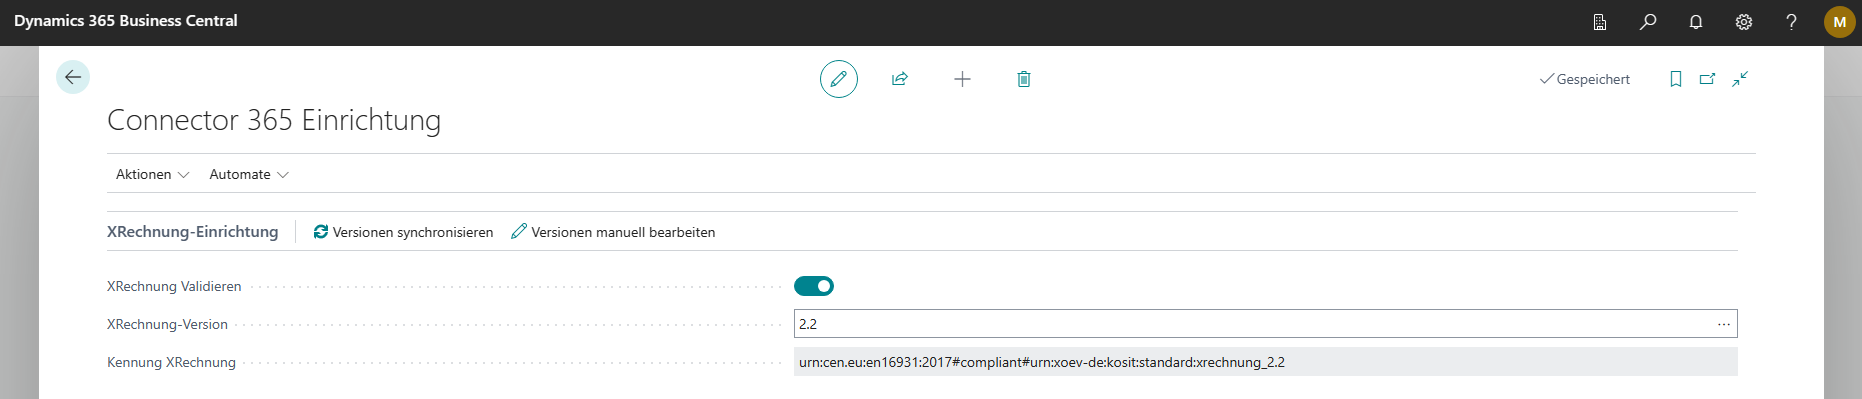
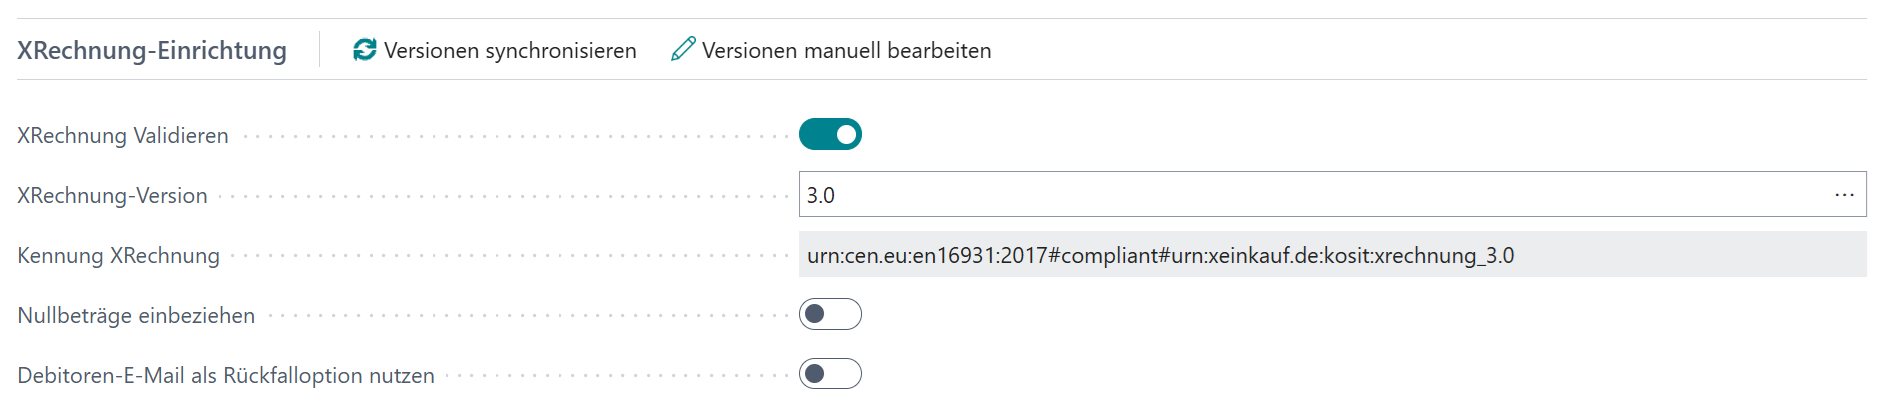
xrechnung: Dokumentieren von neuesten nderungen

diff --git a/content/de-de/Apps/XRechnung/first steps/setup/base-setup.md b/content/de-de/Apps/XRechnung/first steps/setup/base-setup.md
@@ -21,7 +21,8 @@ Der Abschnitt XRechnung enthält folgende Felder und Einstellmöglichkeiten:
 | **XRechnung validieren** | Ja, wenn XRechnungen mithilfe des XRechnung-Validators validiert werden sollen. Nein, um keine Prüfung von XRechungen vorzunehmen|
 | **XRechnung-Version** | Die aktuell genutzte XRechnung Version.|
 | **Kennung XRechnung** | Die XRechnung-Kennung, welche für die aktuelle XRechnung-Version genutzt wird. |
-
+| **Debitoren-E-Mail als Rückfalloption** | Gibt an, ob die E-Mail-Adresse des Debitors verwendet werden soll, wenn keine E-Mail-Adresse im Dokumentlayout definiert wurde. <br> {{< notice info Hinweis >}} Diese Option ist **nicht** sichtbar, wenn die Extension ***Connector 365 Addressee Control*** installiert ist - die Kontrolle der Empfängeradressen wird in diesem Fall von dieser Extension übernommen. {{< /notice >}} |
+| **Nullbeträge einbeziehen** | Wenn deaktiviert, werden Zeilen mit einem Gesamtbetrag von 0 von der XRechnung ausgeschlossen. |
 ### XRechnung-Version
 
 Wie unter [Einleitung](de-de/apps/xrechnung/first-steps/introduction/) aufgeführt, gibt es für XRechnung mehrere veröffentlichte Versionen, die jeweils für einen bestimmten Zeitpunkt gültig sind. 
@@ -60,6 +61,32 @@ Aktuell voreingstellte Versionen und Kennungen:
 
 | Version | Kennung | Gültig ab |
 |-|-|-|
-| 3.0 | urn:cen.eu:en16931:2017#compliant#urn:xeinkauf.de:kosit:xrechnung_3.0 | 01.02.2024 |
-| **2.3** | **urn:cen.eu:en16931:2017#compliant#urn:xoev-de:kosit:standard:xrechnung_2.3** | 01.08.2023 |
+| **3.0** | **urn:cen.eu:en16931:2017#compliant#urn:xeinkauf.de:kosit:xrechnung_3.0** | 01.02.2024 |
+| 2.3 | urn:cen.eu:en16931:2017#compliant#urn:xoev-de:kosit:standard:xrechnung_2.3 | 01.08.2023 |
 | 2.2 | urn:cen.eu:en16931:2017#compliant#urn:xoev-de:kosit:standard:xrechnung_2.2 | 01.02.2023 |
+
+### XRechnung Syntax
+<a id="xrechnung-syntax"></a>
+
+#### Was bedeutet XRechnung-Syntax – UBL, CII und ZUGFeRD im Überblick
+
+Die XRechnung ist ein standardisiertes Rechnungsformat für elektronische Rechnungen an öffentliche Auftraggeber in Deutschland. Sie basiert auf europäischen Vorgaben (insb. EN 16931) und kann in unterschiedlichen Syntax-Formaten umgesetzt werden.
+
+- ***Bisheriger Standard: UBL***
+In der bisherigen Umsetzung wurde die XRechnung im Syntax-Format UBL (Universal Business Language) erzeugt.
+UBL ist ein XML-basiertes Format, das international weit verbreitet ist.
+Es bietet eine klare Struktur für Geschäftsprozesse wie Rechnungen, Lieferscheine oder Bestellungen.
+<br>
+
+- ***Neu: Unterstützung für CII***
+Mit der aktuellen Erweiterung unterstützen wir nun auch die Erzeugung von XRechnungen im CII (Cross Industry Invoice)-Format:
+CII ist ein weiterer XML-basierter Standard, entwickelt von UN/CEFACT.
+Es ist semantisch genauer und bietet mehr Flexibilität, insbesondere bei komplexen Rechnungsinhalten.
+Die Unterstützung von CII stellt eine wichtige Erweiterung dar, da beide Formate offiziell für XRechnungen zugelassen sind.
+<br>
+
+- ***Hinweis: ZUGFeRD***
+Ein verwandtes, aber eigenständiges Format ist ZUGFeRD (Zentraler User Guide des Forums elektronische Rechnung Deutschland):
+ZUGFeRD kombiniert strukturierte XML-Daten mit einem PDF/A-3-Dokument, in das die XML-Datei eingebettet ist.
+Es basiert ebenfalls auf der europäischen Norm EN 16931 und verwendet im XML-Teil den CII-Syntax (Cross Industry Invoice) nach UN/CEFACT.
+ZUGFeRD ist jedoch nicht identisch mit der XRechnung – beide Formate können jedoch parallel genutzt werden, sofern der Empfänger dies unterstützt.

diff --git a/content/de-de/Apps/XRechnung/first steps/setup/setup customer.md b/content/de-de/Apps/XRechnung/first steps/setup/setup customer.md
@@ -13,10 +13,13 @@ Die Debitorspezifischen Einstellungen für das Versenden von XRechnungen werden 
 ![](images/XRechnung/XRechnungScreenshot1.png)
 
 Wenn Sie die Dokumentlayouts öffnen stehen Ihnen nach Installation der **Connector 365 XRechnung** App folgende weitere Felder zur Verfügung:
-- **Kundenreferenz** 
+- **Kundenreferenz**
 - **Beleg als Anhang hinzufügen**
+- **XRechnung Syntax**
 
-![](images/XRechnung/xr_doc_layout.png)
+![](images/apps/XRechnung/de/xr-doc-layout.png)
+
+#### Kundenreferenz
 
 In das Feld **Kundenreferenz** wird die Kennung des Empfängers, bei einem öffentlichen Auftraggerber die Leitweg-ID, eingetragen. Diese ist notwendig, um einen Rechnungsempfänger eindeutig identifizieren zu können.
 
@@ -25,6 +28,8 @@ Die Kundenreferenz kann auch im E-Mail-Dialog gesetzt werden, das heißt sie mus
 {{< /notice >}}
 
 <br>
+
+#### Beleg als Anhang hinzufügen
 
 Im Feld **Beleg als Anhang hinzufügen** haben Sie drei Auswahlmöglichkeiten, welche bestimmen wie mit dem Originalbeleg und ggf. Anhängen umgegangen wird.
 
@@ -38,3 +43,25 @@ Im Feld **Beleg als Anhang hinzufügen** haben Sie drei Auswahlmöglichkeiten,
 
 Mehr zum Thema Anhänge finden Sie [hier](de-de/apps/xrechnung/working-with-xrechnung/attachments).
 
+#### XRechnung Syntax
+
+Das Feld **XRechnung Syntax** bestimmt, welcher Syntax für das Erzeugen von XRechnungen greift.
+Standardmäßig wird UBL verwendet – jenes Format, 
+das bislang ausschließlich in unserer Extension ***Connector 365 XRechnung*** zum Einsatz kam. 
+Seit Version **2.16.*.0** kann erstmalig auch das CII-Format verwendet werden.
+Mehr zum Theme ***XRechnung Syntax*** finden Sie [hier](de-de/apps/xrechnung/first-steps/setup/base-setup#xrechnung-syntax).
+
+{{< notice info >}}
+Zum aktuellen Zeitpunkt wird XRechnung-CII ausschließlich für die Belegart **Rechnung** unterstützt.
+{{< /notice >}}
+
+### E-Mail-Empfänger
+
+Beim Versand der XRechnung, wird als E-Mail-Empfänger die Mail-Adresse aus dem Feld ***Empfänger-E-Mail*** verwendet.
+
+|![](images/apps/XRechnung/de/xr-cust-rep-selection-sent-to.png)|
+|-|
+
+Falls dieses Feld nicht gefüllt ist, und die Option [***Debitoren-E-Mail als Rückfalloption***](de-de/apps/xrechnung/first-steps/setup/base-setup) gesetzt ist, wird alternativ die E-Mail-Adresse des Debitors verwendet.
+
+Noch feinere Steuerungsmöglichkeiten für E-Mail-Adressen bietet unsere Extension ***Connector 365 Addressee Control***. Mehr dazu finden Sie [hier](de-de/apps/addressee-control).

diff --git a/content/en-us/connectornav/configuration and setup/setup/user_report_setup_connectornav.md b/content/en-us/connectornav/configuration and setup/setup/user_report_setup_connectornav.md
@@ -40,7 +40,7 @@ This deletes all downloaded documents located in the local temp directory under 
 |SMS Bodytext file| Here the file name for the SMS body text is selected. This will be uploaded to the server under com_tmp. If the file already exists, it will be overwritten.|
 |Default files atteched 1 – 4 | Here 1 - 4 attachment files can be preset for the user. This is uploaded to the server under com_tmp. If the file already exists, it is overwritten.<br />**The four attachments will be removed in one of the next updates and replaced by the attachment lines (see below).|
 |Additional output folder | In addition to the **Original document** (storage in com_out), a storage folder can be entered here, in which a copy is stored.<br />An example scenario is the transfer of the documents into a DMS system, which are expected at a certain place.<br />Here the placeholder %9 is available, which replaces the mandate in the path. It is important that the folder structure according to the specified path already exists. Since the path is not automatically generated.|
-|File name | An individual file name for the original document can be entered here. This entry overwrites the setting "File name is voucher number" from the Connector NAV setup. In addition to the "Free text" placeholders are available:<br />%1 Document number<br />%2 Document type<br />%3 Date YYYYMMDD<br />%4 Time HHMMSS<br />%5 Sequence number of the job list<br />%6 Job mode<br />%7 Dispatch via<br />%8 Reference<br />When naming must be absolutely observed that the name is unique. <br />Otherwise, original documents will be overwritten when resending.<br />Not recommended: %2_%1.<br />Recommended: %2_%1_%5.|
+|File name | An individual file name for the original document can be entered here. This entry overwrites the setting "File name is voucher number" from the Connector NAV setup. In addition to the "Free text" placeholders are available:<br />%1 Document number<br />%2 Document type<br />%3 Date YYYYMMDD<br />%4 Time HHMMSS<br />%5 Sequence number of the job list<br />%6 Job mode<br />%7 Dispatch via<br />%8 Reference<br />%9 Company Name<br /> When naming must be absolutely observed that the name is unique. <br />Otherwise, original documents will be overwritten when resending.<br />Not recommended: %2_%1.<br />Recommended: %2_%1_%5.|
 
 
 #### Register Control

diff --git a/content/de-de/Apps/XRechnung/new and planned/_index.md b/content/de-de/Apps/XRechnung/new and planned/_index.md
@@ -8,6 +8,40 @@ weight: 1
 ---
 
 ### Neu und geplant
+
+#### Version 2.16.0.0 - 16.04.2025
+Neue Funktionen:
+- Ermöglicht die Erstellung von XRechnungen im CII-Syntax aus Verkaufsrechnungen
+
+#### Version 2.15.0.0 - 18.03.2025
+Neue Funktionen:
+- Ermöglicht das Berücksichtigen von Nullbetragszeilen beim Erzeugen der XRechnung
+
+#### Version 2.14.0.0 - 18.03.2025
+Korrektur:
+- Information für BT-44 (Buyer name) wird nun standardmäßig aus dem Beleg, nicht länger aus dem Debitor ermittelt
+
+#### Version 2.13.0.0 - 20.02.2025
+Neue Funktionen:
+- Integration einer entkoppelten Funktion zum Erzeugen von XRechnungen inklusive Prüfbericht
+- Es wurde technisch ermöglicht, ungebuchte Rechnungen und Gutschriften (Sales Header) zu verarbeiten
+- Integration weiterer nützlicher Events
+
+#### Version 2.12.0.0 - 31.01.2025
+Neue Funktionen:
+- Ermöglicht das Heranziehen der Mail-Adresse aus dem Debitor, falls keine Mail-Adresse im Dokumentlayout eingerichtet wurde.
+
+#### Version 2.11.0.4 - 31.12.2024
+Korrekturen:
+- Behebt das Problem von leeren Prüfberichten beim Herunterladen und Öffnen aus den Rückmeldungseinträgen
+
+#### Version 2.11.0.2 - 27.12.2024
+Korrekturen:
+- Behobenes Problem beim Scrollen durch Validierungsberichte in verschiedenen Browsern, unter anderem im Microsoft Edge
+
+#### Version 2.11.0.1 - 21.11.2024
+Korrekturen:
+- Beheben von versehentlich zusammengeführten Syntax-Fehler
  
 #### Version 2.10.0.0 - 11.10.2024
 Neue Funktionen:

diff --git a/content/de-de/Apps/XRechnung/first steps/introduction.md b/content/de-de/Apps/XRechnung/first steps/introduction.md
@@ -24,8 +24,12 @@ Die nachfolgende Tabelle gibt eine Übersicht über die Gültigkeitzeiträume de
 
 | XRechnung-Version | Fassung vom     | Gültigkeitszeitraum         |
 |-------------------|-----------------|-----------------------------|
-| 3.0.0             | 28.07.2023      | ab 01.02.2024               |
-| **2.3.1**         | **03.02.2023**  | **01.08.2023 - 31.01.2024** |
+| **3.0.2 Spring 2025 Bugfix**  | **21.03.2025**      | **ab 21.03.2025**               |
+| 3.0.2 Fall 2024 Bugfix  | 20.11.2024      | ab 20.11.2024               |
+| 3.0.2             | 20.06.2024      | ab 20.06.2024               |
+| 3.0.1             | 22.09.2023      | ab 01.02.2024               |
+| 3.0.0             | 31.07.2023      | ab 01.08.2023               |
+| 2.3.1             | 03.02.2023      | 01.08.2023 - 31.01.2024     |
 | 2.2.0             | 27.01.2022      | 01.02.2022 - 31.07.2023     |
 | 2.1.0<br>(zurückgezogen) | 22.07.2021   | zurückgezogen           |
 | 2.0.1             | 16.12.2020      | 01.07.2021 - 31.01.2022     |

diff --git a/content/de-de/Apps/XRechnung/working with XRechnung/sending.md b/content/de-de/Apps/XRechnung/working with XRechnung/sending.md
@@ -19,10 +19,11 @@ Wenn die Einrichtung abgeschlossen wurde, so können Sie Rechnungen einfach per 
 
 Es öffnet sich anschließend das standardmäßige E-Mail-Fenster mit kleineren Anpassungen für den XRechnung-Versand.
 
-|![](images/XRechnung/XRechnungScreenshot4.PNG)|
+|![](images/apps/XRechnung/de/sending-dialog.png)|
 |-|
 
 Im Dialog lassen sich der Absender, der Empfänger, der Betreff sowie die Kundenreferenz einsehen und anpassen.
+Zusätzlich kann auch eingerichtet werden, im welchen Format die XRechnung erzeugt werden soll ([UBL oder CII](de-de/apps/xrechnung/first-steps/setup/base-setup#xrechnung-syntax)).
 Der Inhalt der Mail sowie weitere Anhänge können ebenfalls eingesehen und verändert werden.
 Mehr zum Thema **Anhänge** finden Sie [hier](de-de/apps/xrechnung/working-with-xrechnung/attachments).
 
